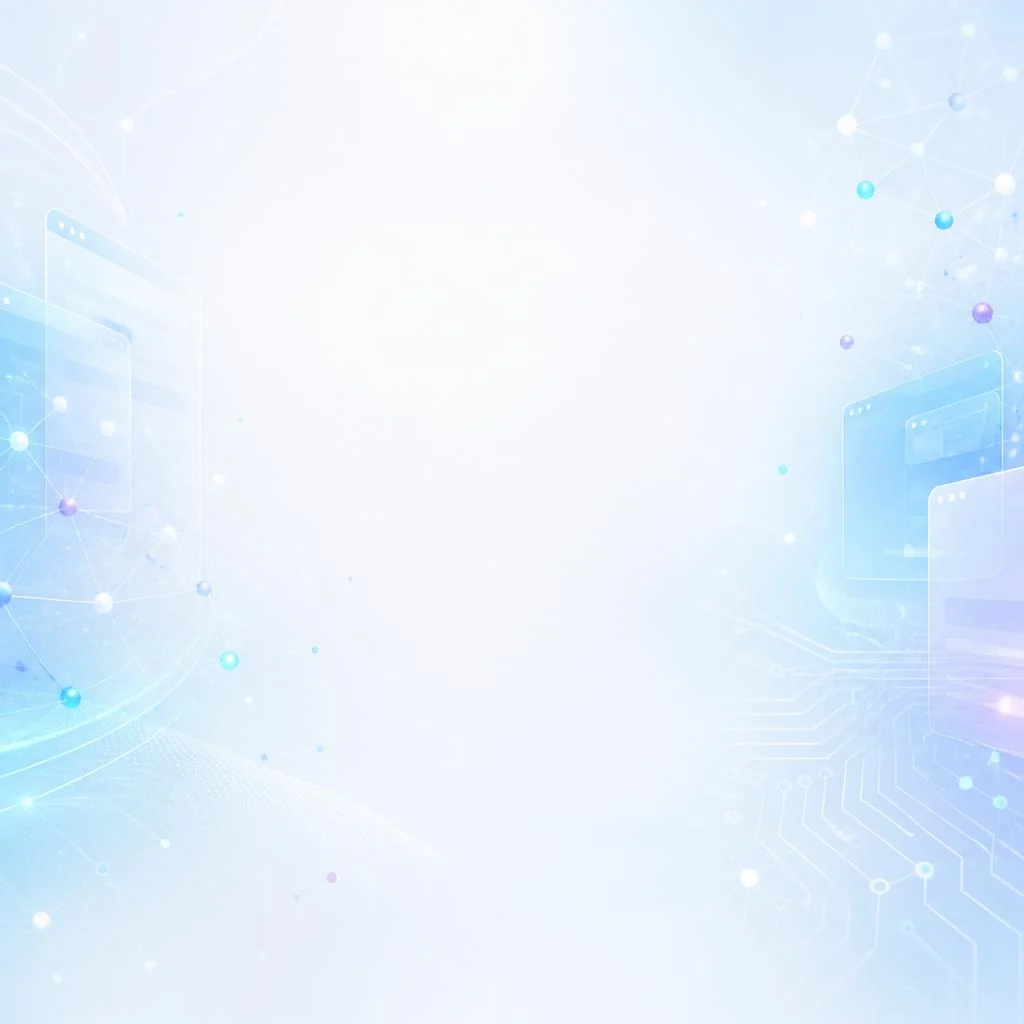
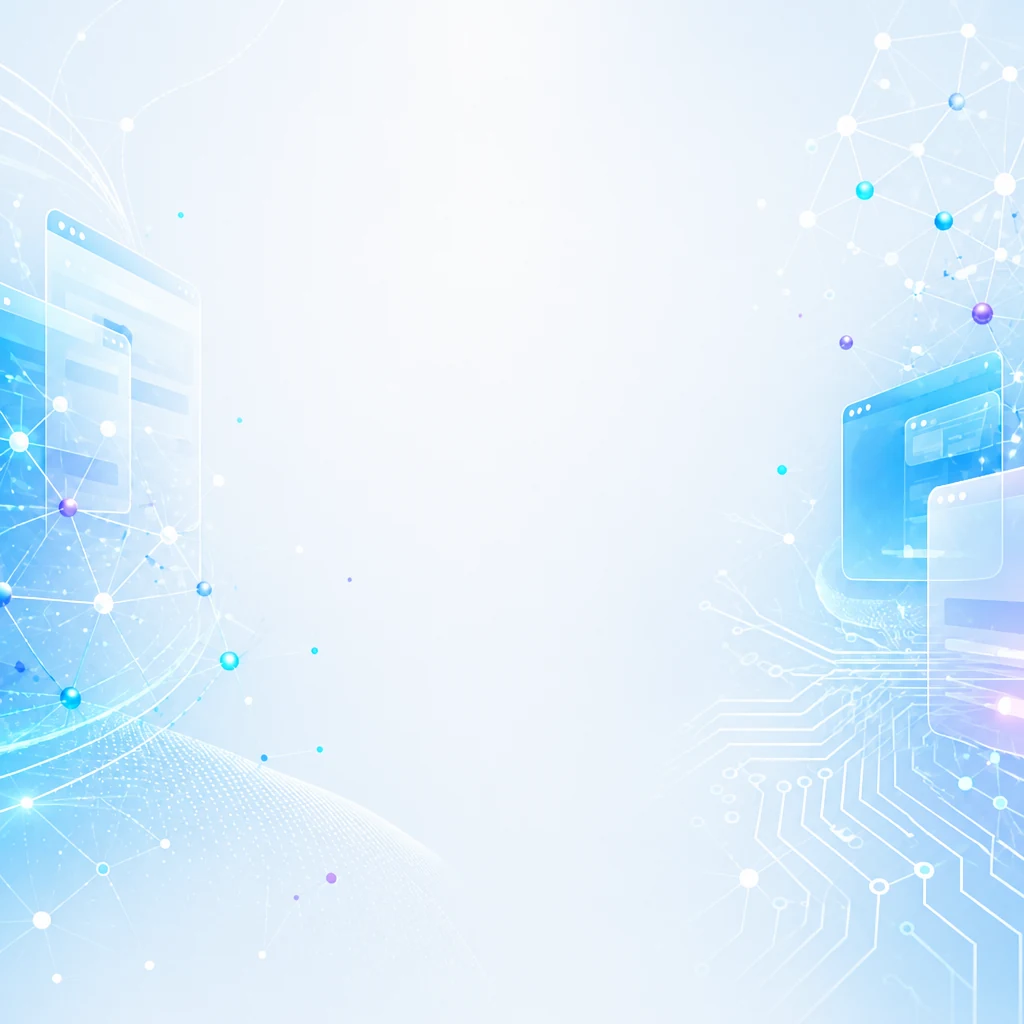
Update home page background image and layout
Replit-Commit-Author: Agent

diff --git a/client/src/pages/home.tsx b/client/src/pages/home.tsx
@@ -575,7 +575,7 @@ export default function Home() {
               alt=""
               className="h-full w-full object-cover object-[80%_center] md:object-center"
             />
-            <div className="absolute inset-0 bg-gradient-to-r from-white/20 via-white/35 to-white/20" />
+            <div className="absolute inset-0 bg-gradient-to-r from-white/10 via-white/20 to-white/10" />
           </div>
           <div className="container mx-auto px-6 relative z-10">
             <div className="text-center mb-12">
@@ -587,7 +587,7 @@ export default function Home() {
               </p>
             </div>
             <div className="grid md:grid-cols-2 gap-8 max-w-4xl mx-auto">
-              <Card className="border border-transparent bg-card overflow-visible transition-shadow duration-500 hover:border-cyan-500/50 hover:shadow-[0_0_15px_rgba(0,200,255,0.15),0_0_30px_rgba(0,200,255,0.08)]">
+              <Card className="overflow-visible border border-slate-300 bg-white shadow-xl shadow-slate-900/10 transition-shadow duration-500 hover:border-cyan-500/60 hover:shadow-[0_0_15px_rgba(0,200,255,0.15),0_0_30px_rgba(0,200,255,0.08)]">
                 <CardContent className="p-6 text-center flex flex-col items-center h-full">
                 <div className="inline-flex h-12 w-12 items-center justify-center rounded-lg bg-primary/10 text-primary mb-4">
                   <Rocket className="h-6 w-6" />
@@ -625,7 +625,7 @@ export default function Home() {
               </CardContent>
               </Card>
 
-              <Card className="border border-transparent bg-card overflow-visible transition-shadow duration-500 hover:border-cyan-500/50 hover:shadow-[0_0_15px_rgba(0,200,255,0.15),0_0_30px_rgba(0,200,255,0.08)]">
+              <Card className="overflow-visible border border-slate-300 bg-white shadow-xl shadow-slate-900/10 transition-shadow duration-500 hover:border-cyan-500/60 hover:shadow-[0_0_15px_rgba(0,200,255,0.15),0_0_30px_rgba(0,200,255,0.08)]">
                 <CardContent className="p-6 text-center flex flex-col items-center h-full">
                 <div className="inline-flex h-12 w-12 items-center justify-center rounded-lg bg-primary/10 text-primary mb-4">
                   <MessageSquare className="h-6 w-6" />
